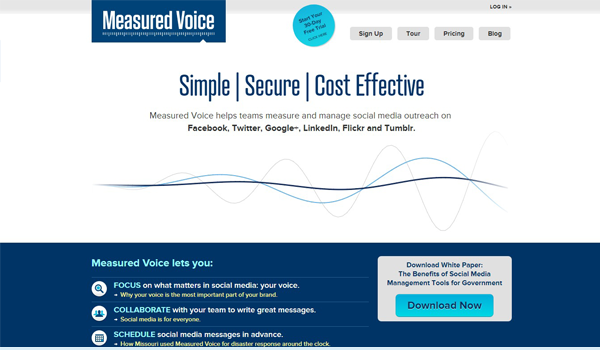
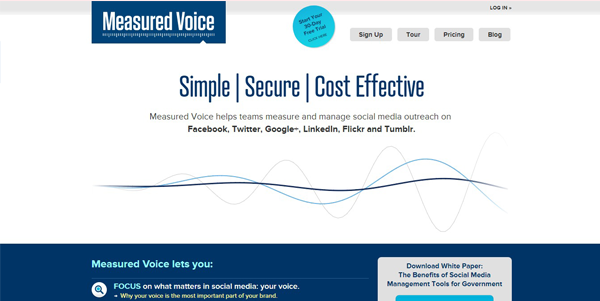
fixed padding and margin size

diff --git a/app/assets/stylesheets/main.sass b/app/assets/stylesheets/main.sass
@@ -30,6 +30,10 @@ h3
   font-size: 40px
   line-height: 55px
   font-weight: bold
+h6
+  font-size: 20px
+  line-height: 30px
+  color: #a1adb8
 
 #header
   background: asset-url("banner-img.png") no-repeat center
@@ -444,12 +448,14 @@ nav#menu.panel
   h3
     color: #FF4542
     margin-top: 70px
-.work-img
-  margin-bottom: 50px
+
+
 .txt-details
-  margin-left: 94px
+  padding: 10px 0px 0px 50px
   p
     text-align: justify
+    font-size: 16px
+    line-height: 25px
     span
       color: #1565c0
       cursor: pointer
@@ -460,7 +466,7 @@ nav#menu.panel
     font-size: 20px
 .work-img
   position: relative
-  margin: 15px 0px
+  margin: 20px 0px
   border: 1px solid #EEE
   overflow: hidden
   &:hover >a>.effect
@@ -490,24 +496,22 @@ nav#menu.panel
   border-color: #fff
   background: none
   color: #fff
-  padding: 10px
+  padding: 5px 10px
 
 .pagination
   li
     display: inline
   a
-    background: #f4f4f4
+    background: #dddddd
     color: #999999
     padding: 5px 10px
     text-decoration: none
     &:hover
-      background: #dddddd
+      background: #ff4542
+      color: #fff
 
-    
 .next
-  a
-    background: #f4f4f4
-    float: right
+  padding-left: 100px
 
 
 
@@ -613,6 +617,18 @@ Landscape tablets and medium desktops
     margin-right: 300px
   #footer-top .arrow-up
     margin-top: 15px
+  #blog-main-cnt .blog-cnt h6 
+    font-size: 17px
+    line-height: 25px
+  #blog-main-cnt .blog-cnt h5
+    line-height: 28px
+    font-size: 14px
+  .txt-details
+    padding: 0px
+  .txt-details p
+    font-size: 15px
+  .effect
+    padding: 75px 0px 0px
 @media (max-width: 768px) 
   #header
     height: 578px
@@ -676,6 +692,36 @@ Portrait phones and smaller
 
   #what-we-do .wt-we-do-cntnt
     margin-bottom: -39px
+  #blog-main-cnt .blog-cnt h3
+    font-size: 30px
+  #blog-main-cnt .blog-cnt h5
+    font-size: 14px
+    line-height: 25px
+  #blog-main-cnt .blog-cnt h6 
+    font-size: 9px
+    line-height: 24px
+  #blog-main-cnt .blog-cnt p
+    font-size: 13px
+    line-height: 23px
+  #work-main-cnt h3
+    margin-top: 25px
+    font-size: 30px
+    margin-bottom: -10px
+
+  #work-main-cnt h6
+    font-size: 12px
+    line-height: 0px
+
+  .txt-details
+    padding: 0px
+  .txt-details p
+    font-size: 12px
+    line-height: 20px
+  .effect
+    padding: 40px 0px 0px
+  .btn
+    padding: 5px
+    font-size: 10px
 @media screen and (max-device-width:320px) and (max-device-height:480px)
   #header
     height: 481px
@@ -724,6 +770,38 @@ Portrait phones and smaller
 
   #footer .footer-content
     margin-top: 15px
+  #blog-main-cnt .blog-cnt h3
+    font-size: 30px
+  #blog-main-cnt .blog-cnt h5
+    font-size: 14px
+    line-height: 24px
+  .blog-cnt
+    h6
+      font-size: 11px
+      line-height: 23px
+  #blog-main-cnt .blog-cnt p
+    font-size: 13px
+    line-height: 23px
+  #work-main-cnt h3
+    margin-top: 25px
+    font-size: 30px
+    margin-bottom: -10px
+
+  #work-main-cnt h6
+    font-size: 12px
+    line-height: 0px
+
+  .txt-details
+    padding: 0px
+  .txt-details p
+    font-size: 12px
+    line-height: 20px
+  .effect
+    padding: 20px 0px 0px
+  .btn
+    padding: 5px 5px
+    font-size: 10px
+
 
 @media screen and (max-device-width:320px) and (device-height:568px)
   #header
@@ -745,6 +823,7 @@ Portrait phones and smaller
   #footer-top .footer-left-btn
     padding: 5px 10px
     margin-left: 70px
+ 
 
 @media only screen and (max-device-width: 320px)
  
